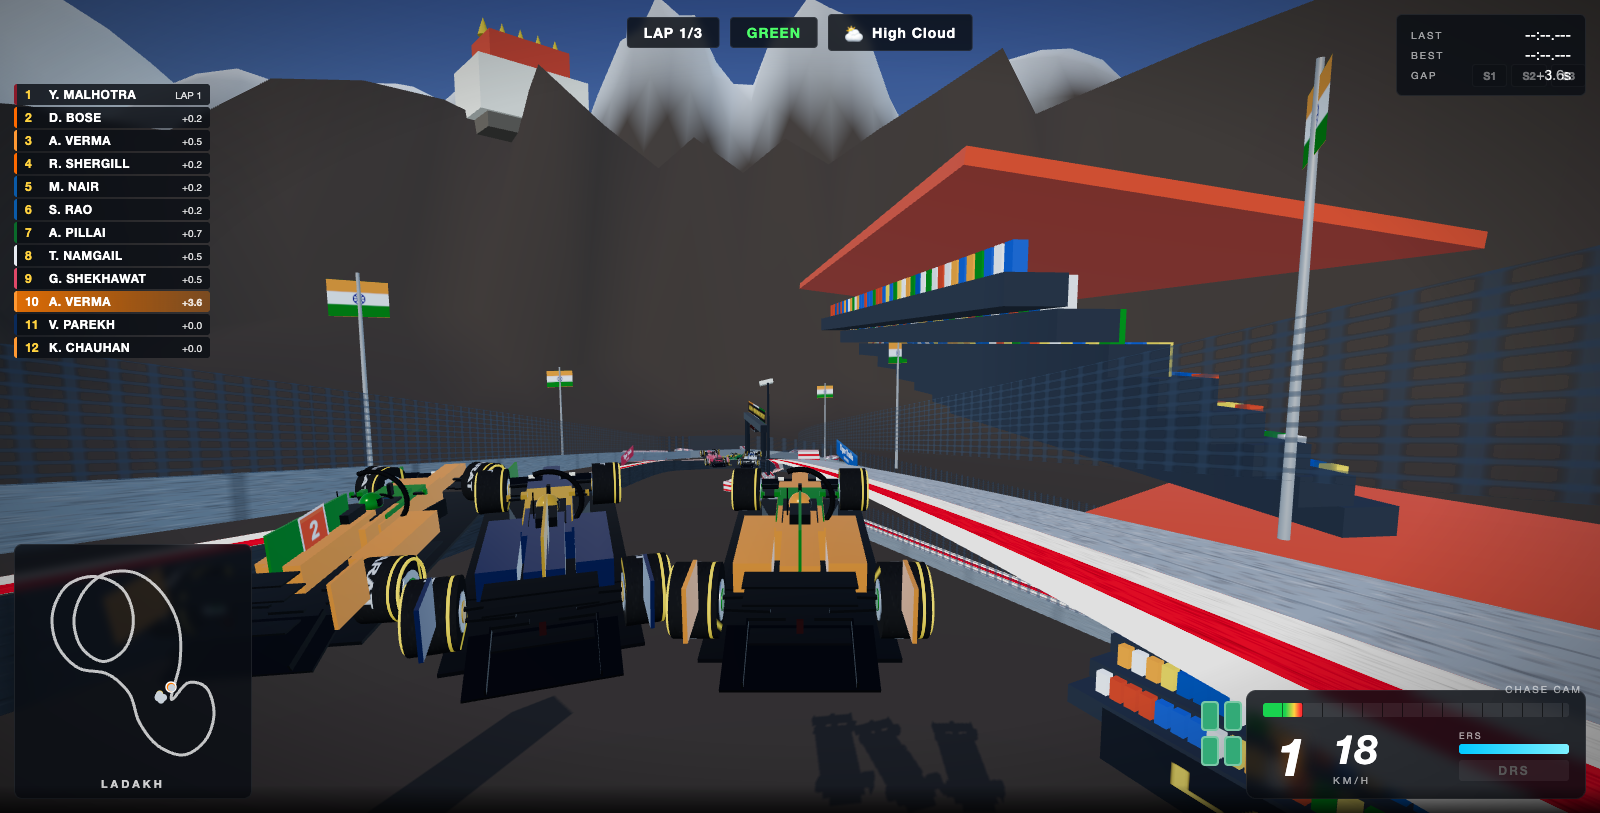
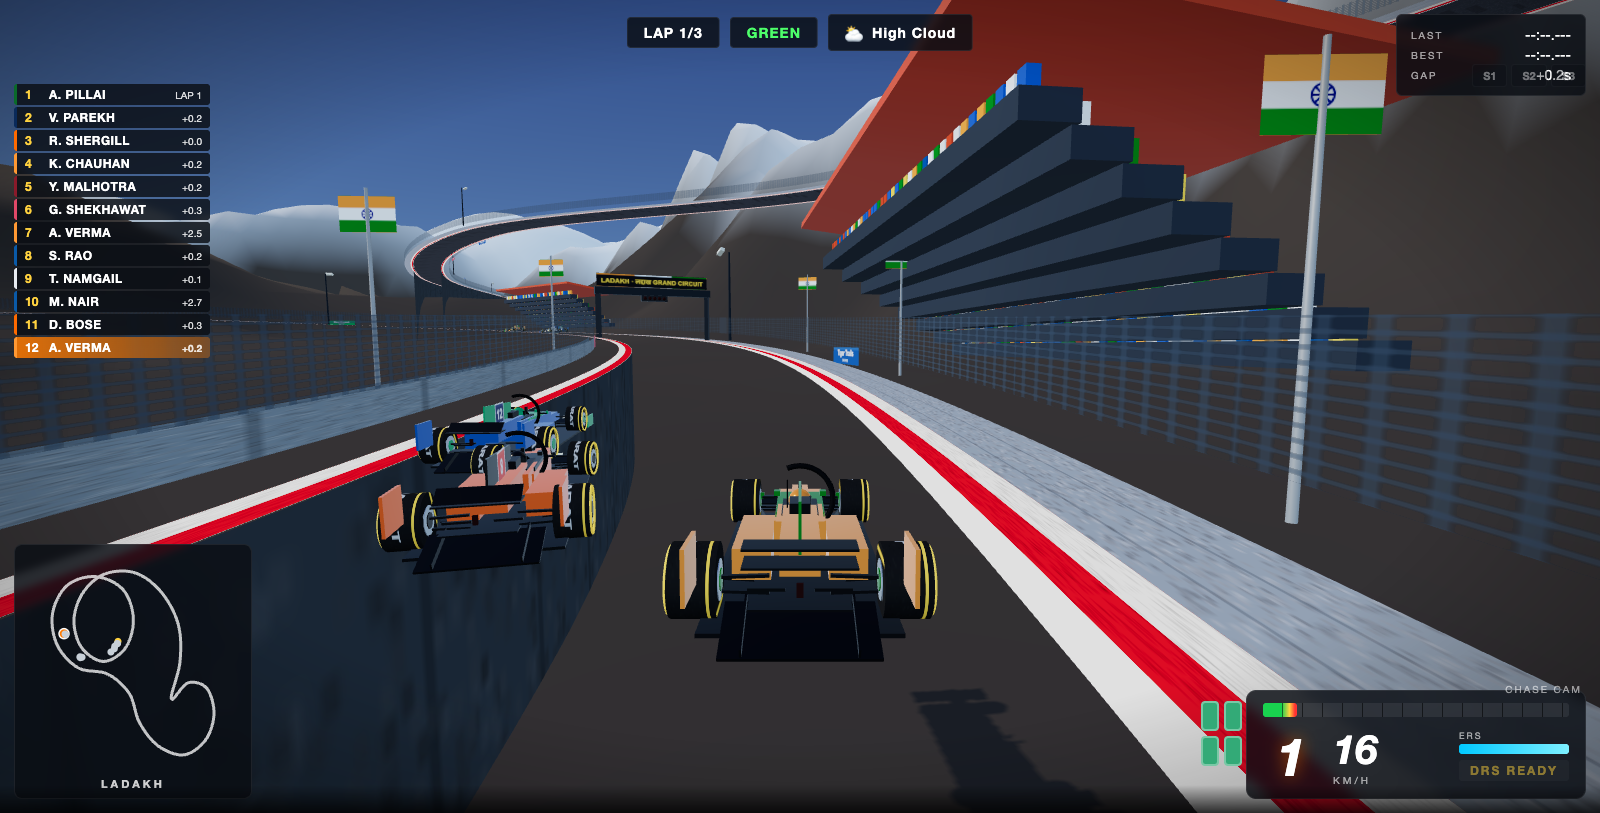
debug roads

diff --git a/js/config.js b/js/config.js
@@ -192,13 +192,18 @@ export const CITIES = [
     desc: 'Hairpins, tunnels and cliffs at 3,500m — the most extreme circuit on Earth.',
     lengthKm: 4.8, width: 11, seed: 1111,
     points: [
+      // NOTE: point order is rotated vs older versions — start/finish now sits on
+      // the fast ridge descent (old P8/P9 area). This fixes the reported pinch
+      // 'ROAD DEBUG ladakh | 5m/3831m ... R≈9.9m v=60kmh' caused by the 170°
+      // wrap corner sitting exactly at the gantry; that hairpin is now a proper
+      // mid-lap turn at 2,460m with a braking zone in front of it.
+      [-420, -240, 70], [-320, -180, 74], [-220, -240, 78], [-180, -380, 84],
+      [-230, -520, 90], [-360, -580, 96], [-490, -540, 100], [-560, -410, 104],
+      [-540, -260, 108], [-440, -150, 110], [-300, -120, 108], [-200, -30, 104],
+      [-150, 110, 98], [-60, 220, 90], [60, 260, 82], [160, 190, 72],
+      [200, 60, 62], [160, -60, 50], [80, -80, 40],
       [0, 0, 20], [40, -180, 24], [30, -360, 30], [-60, -520, 38], [-180, -600, 46],
-      [-320, -590, 52], [-420, -500, 58], [-460, -370, 64], [-420, -240, 70],
-      [-320, -180, 74], [-220, -240, 78], [-180, -380, 84], [-230, -520, 90],
-      [-360, -580, 96], [-490, -540, 100], [-560, -410, 104], [-540, -260, 108],
-      [-440, -150, 110], [-300, -120, 108], [-200, -30, 104], [-150, 110, 98],
-      [-60, 220, 90], [60, 260, 82], [160, 190, 72], [200, 60, 62],
-      [160, -60, 50], [80, -80, 40],
+      [-320, -590, 52], [-420, -500, 58], [-460, -370, 64],
     ],
     env: { ground: 0x7d7666, groundKind: 'mountain', water: null,
       buildings: { style: 'ladakh', density: 0.12, palette: [0xd8d0c0, 0xc0b8a0, 0xa89880], maxH: 12 },
